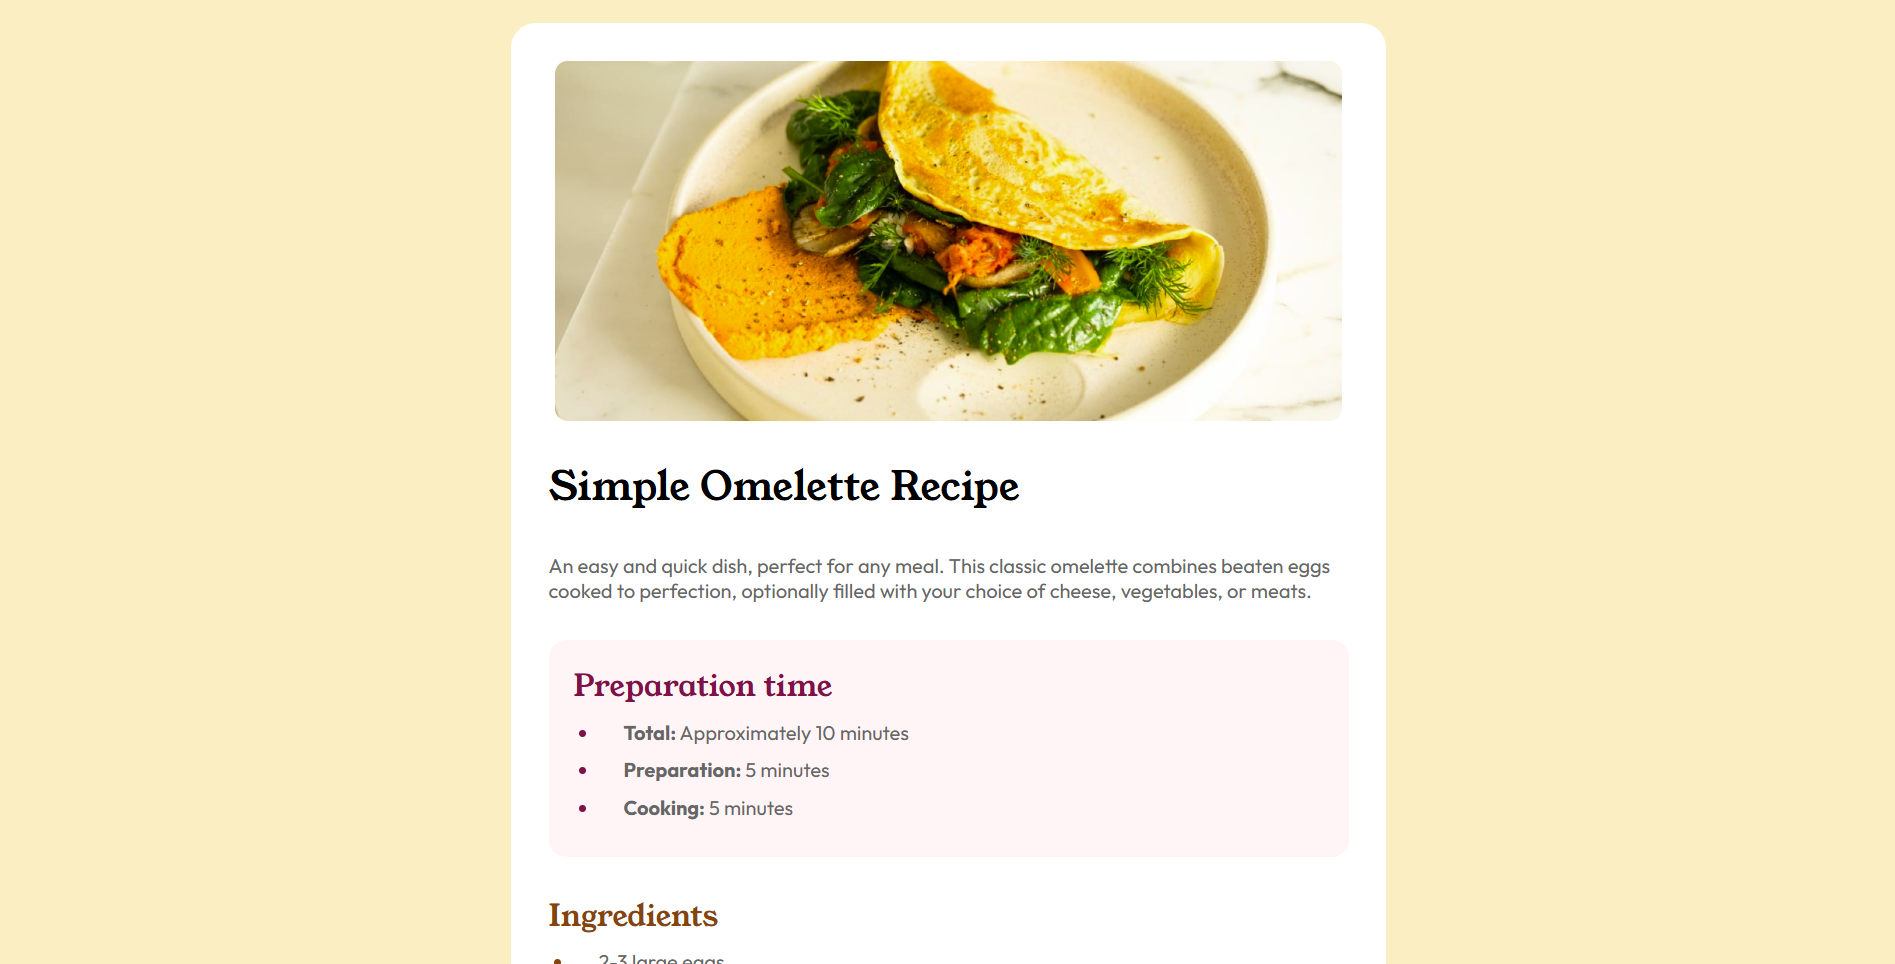
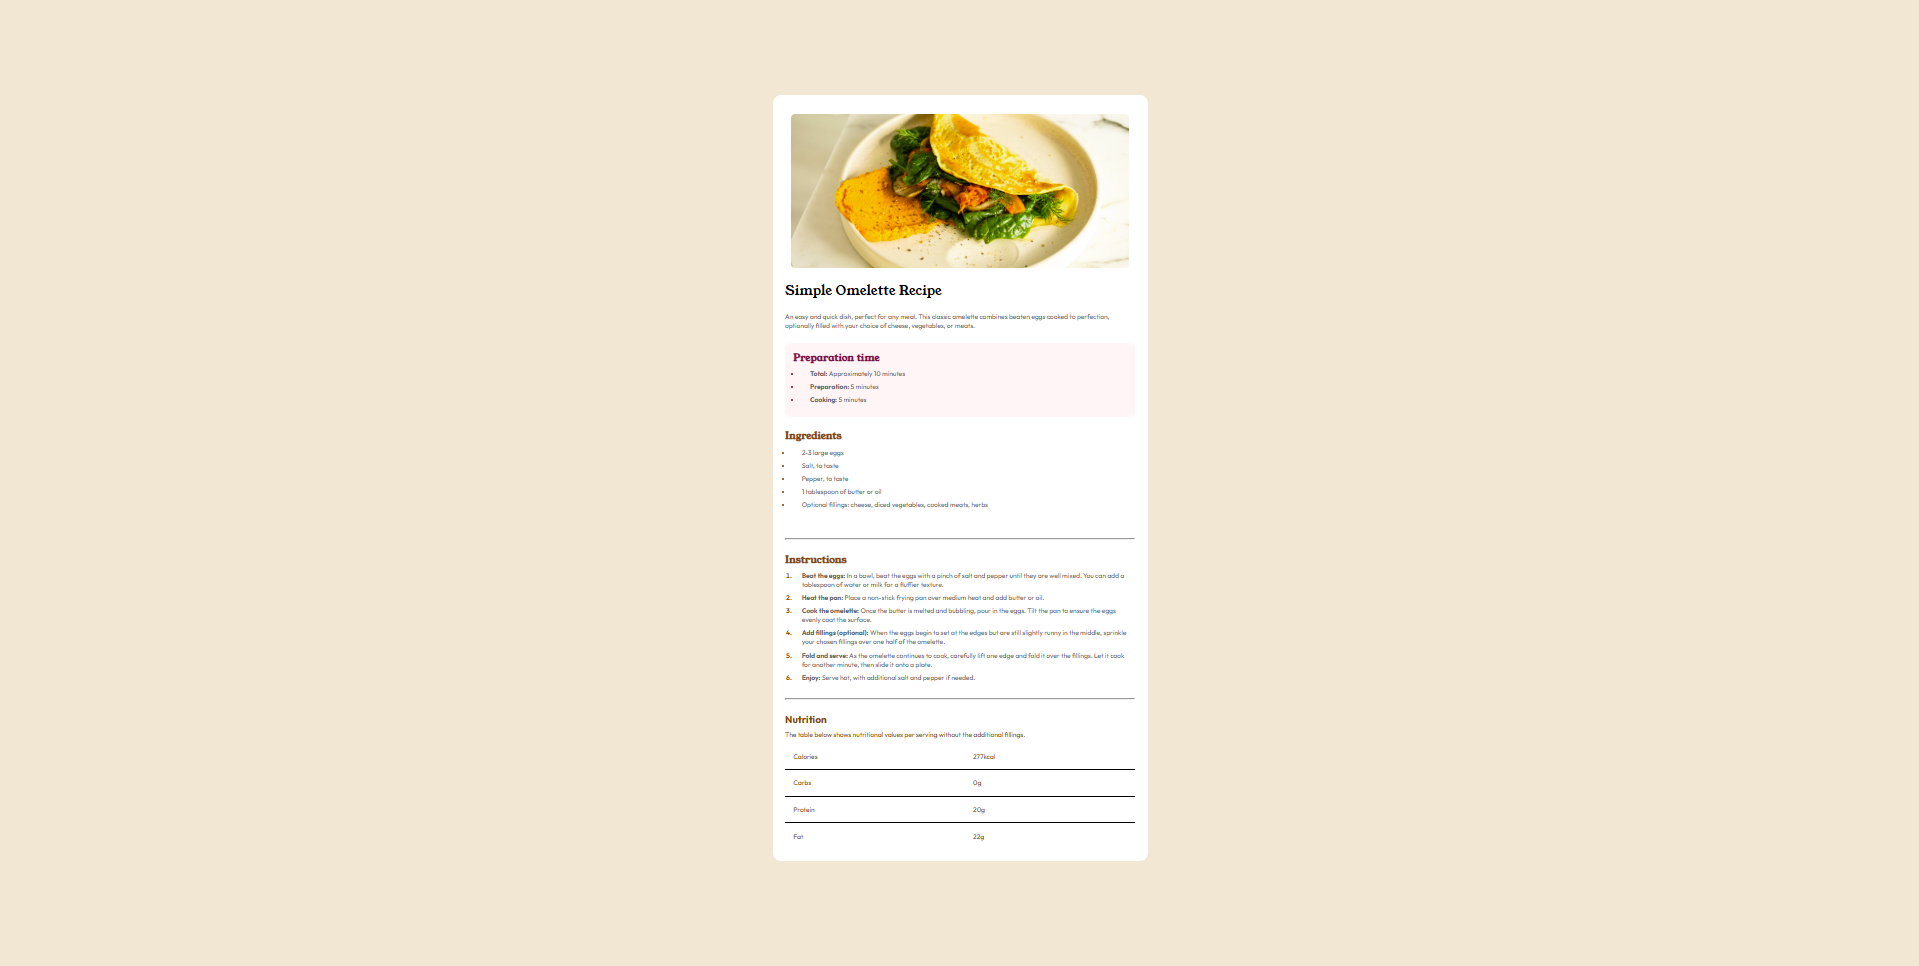
finished

diff --git a/index.html b/index.html
@@ -5,52 +5,42 @@
   <meta name="viewport" content="width=device-width, initial-scale=1.0">
   <link rel="icon" type="image/png" sizes="32x32" href="./assets/images/favicon-32x32.png">
   <link rel="stylesheet" href="styles.css">
-  <link rel="preconnect" href="https://fonts.googleapis.com">
-  <link rel="preconnect" href="https://fonts.gstatic.com" crossorigin>
-  <link href="https://fonts.googleapis.com/css2?family=Young+Serif&display=swap" rel="stylesheet">
-  <link rel="preconnect" href="https://fonts.googleapis.com">
-  <link rel="preconnect" href="https://fonts.gstatic.com" crossorigin>
-  <link href="https://fonts.googleapis.com/css2?family=Outfit:wght@100..900&display=swap" rel="stylesheet">
   <title>Frontend Mentor | Recipe page</title>
-  <style>
-    .attribution { font-size: 11px; text-align: center; margin-top: 10px; }
-    .attribution a { color: hsl(228, 45%, 44%); }
-  </style>
 </head>
 <body>
-  <div class="recipe">
-    <div class="img-cont">
-      <img src="assets/images/image-omelette.jpeg">
-    </div>
-    <div class="header">
-      <h1 class="title">Simple Omelette Recipe</h1>
-    </div>
-    <div class="para-1">
+  <main>
+    <figure>
+      <img src="assets/images/image-omelette.jpeg" alt="omelatte image">
+    </figure>
+    <header>
+      <h1>Simple Omelette Recipe</h1>
+    </header>
+    <section id="s1">
       An easy and quick dish, perfect for any meal. This classic omelette combines beaten eggs cooked 
       to perfection, optionally filled with your choice of cheese, vegetables, or meats.
-    </div>
-    <div class="box-2">
-      <h2 class="title" style="color: hsl(332, 51%, 32%);">Preparation time</h2>
-      <ul class="time">
+    </section>
+    <section id="s2">
+      <h2>Preparation time</h2>
+      <ul>
         <li><b>Total:</b> Approximately 10 minutes</li>
         <li><b>Preparation:</b> 5 minutes</li>
         <li><b>Cooking:</b> 5 minutes</li>
       </ul>
-    </div>
-    <div class="box-3">
-      <h2 class="title" style="color: hsl(14, 45%, 36%)">Ingredients</h2>
-      <ul class="ingredients">
+    </section>
+    <section id="s3">
+      <h2>Ingredients</h2>
+      <ul>
         <li>2-3 large eggs</li>
         <li>Salt, to taste</li>
         <li>Pepper, to taste</li>
         <li>1 tablespoon of butter or oil</li>
         <li>Optional fillings: cheese, diced vegetables, cooked meats, herbs</li>
       </ul>
-    </div>
+    </section>
     <hr>
-    <div class="box-4">
-      <h2 class="title" style="color: hsl(14, 45%, 36%)">Instructions</h2>
-      <ol class="instructions">
+    <section id="s4">
+      <h2>Instructions</h2>
+      <ol>
         <li><b>Beat the eggs:</b> In a bowl, beat the eggs with a pinch of salt and pepper until they are well mixed. 
         You can add a tablespoon of water or milk for a fluffier texture.</li>
         <li><b>Heat the pan:</b> Place a non-stick frying pan over medium heat and add butter or oil.</li>
@@ -62,14 +52,14 @@
         fillings. Let it cook for another minute, then slide it onto a plate.</li>
         <li><b>Enjoy:</b> Serve hot, with additional salt and pepper if needed.</li>
       </ol>
-    </div>
+    </section>
     <hr>
-    <div class="box-5">
-      <h2 class="title" style="color: hsl(14, 45%, 36%);">Nutrition</h2>
-      <div class="para-6">
+    <section id="s5">
+      <h2>Nutrition</h2>
+      <p>
         The table below shows nutritional values per serving without the additional fillings.
-      </div>
-      <table class="table">
+      </p>
+      <table>
         <tr>
           <td>Calories</td>
           <td>277kcal</td>
@@ -83,14 +73,11 @@
           <td>20g</td>
         </tr>
         <tr>
-          <td style="border-bottom: 0;">Fat</td>
-          <td style="border-bottom: 0;">22g</td>
+          <td>Fat</td>
+          <td>22g</td>
         </tr>
       </table>
-    <div class="attribution">
-      Challenge by <a href="https://www.frontendmentor.io?ref=challenge" target="_blank">Frontend Mentor</a>. 
-      Coded by <a href="https://github.com/micha1bak" target="_blank">Michał Bąk</a>.
-    </div>
-  </div>
+    </section>
+  </main>
 </body>
 </html>

diff --git a/styles.css b/styles.css
@@ -14,14 +14,14 @@
 }
 
 body {
-  background-color: blanchedalmond;
+  background-color: hsl(30, 54%, 90%);
   display: flex;
   justify-content: center;
 }
 
 main {
   width: 100%;
-  max-width: 700px;
+  max-width: 900px;
   border-radius: 0;
   background-color: white;
   display: flex;
@@ -165,7 +165,7 @@ tr td:nth-of-type(2) {
 @media (min-width: 400px) {
   main {
     width: 90%;
-    margin: 20px;
+    margin: 5%;
     border-radius: 20px;
   }
   img {
@@ -184,6 +184,6 @@ tr td:nth-of-type(2) {
   img {
     border-radius: 10px;
     width: 90%;
-    margin-top: 30px;
+    margin-top: 5%;
   }
 }
